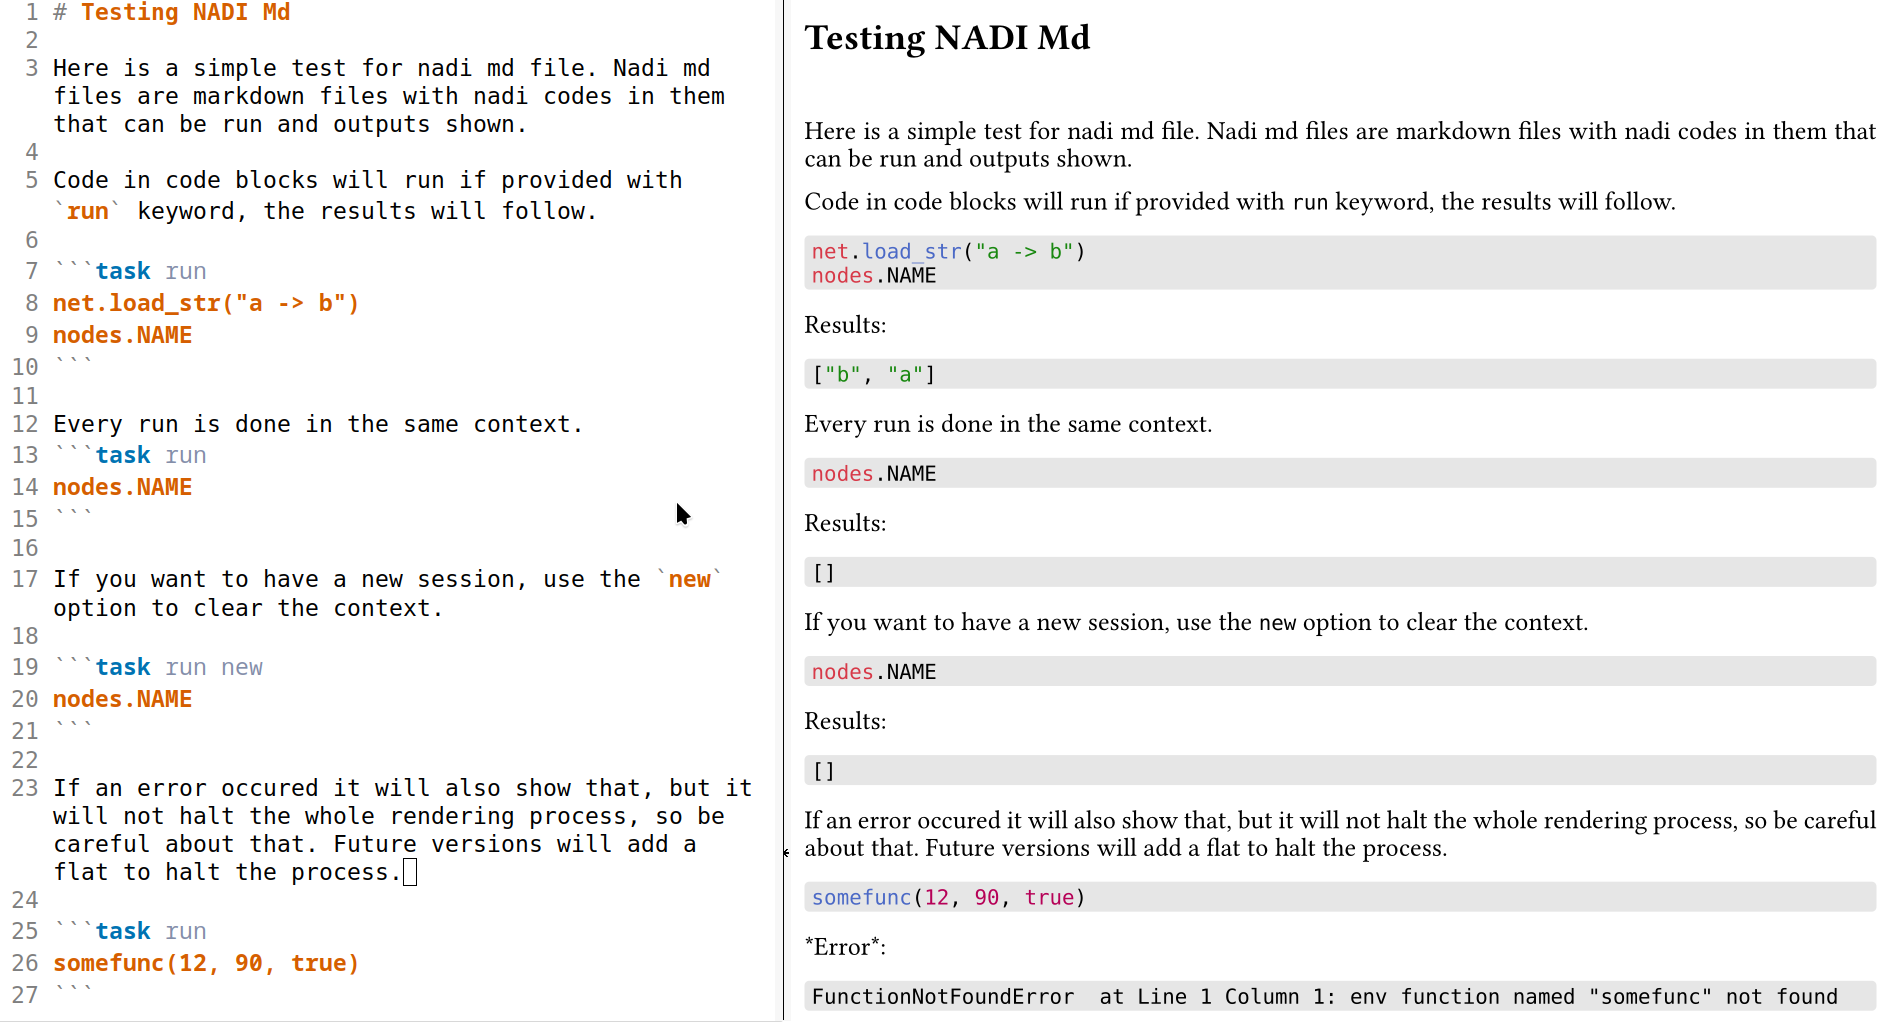
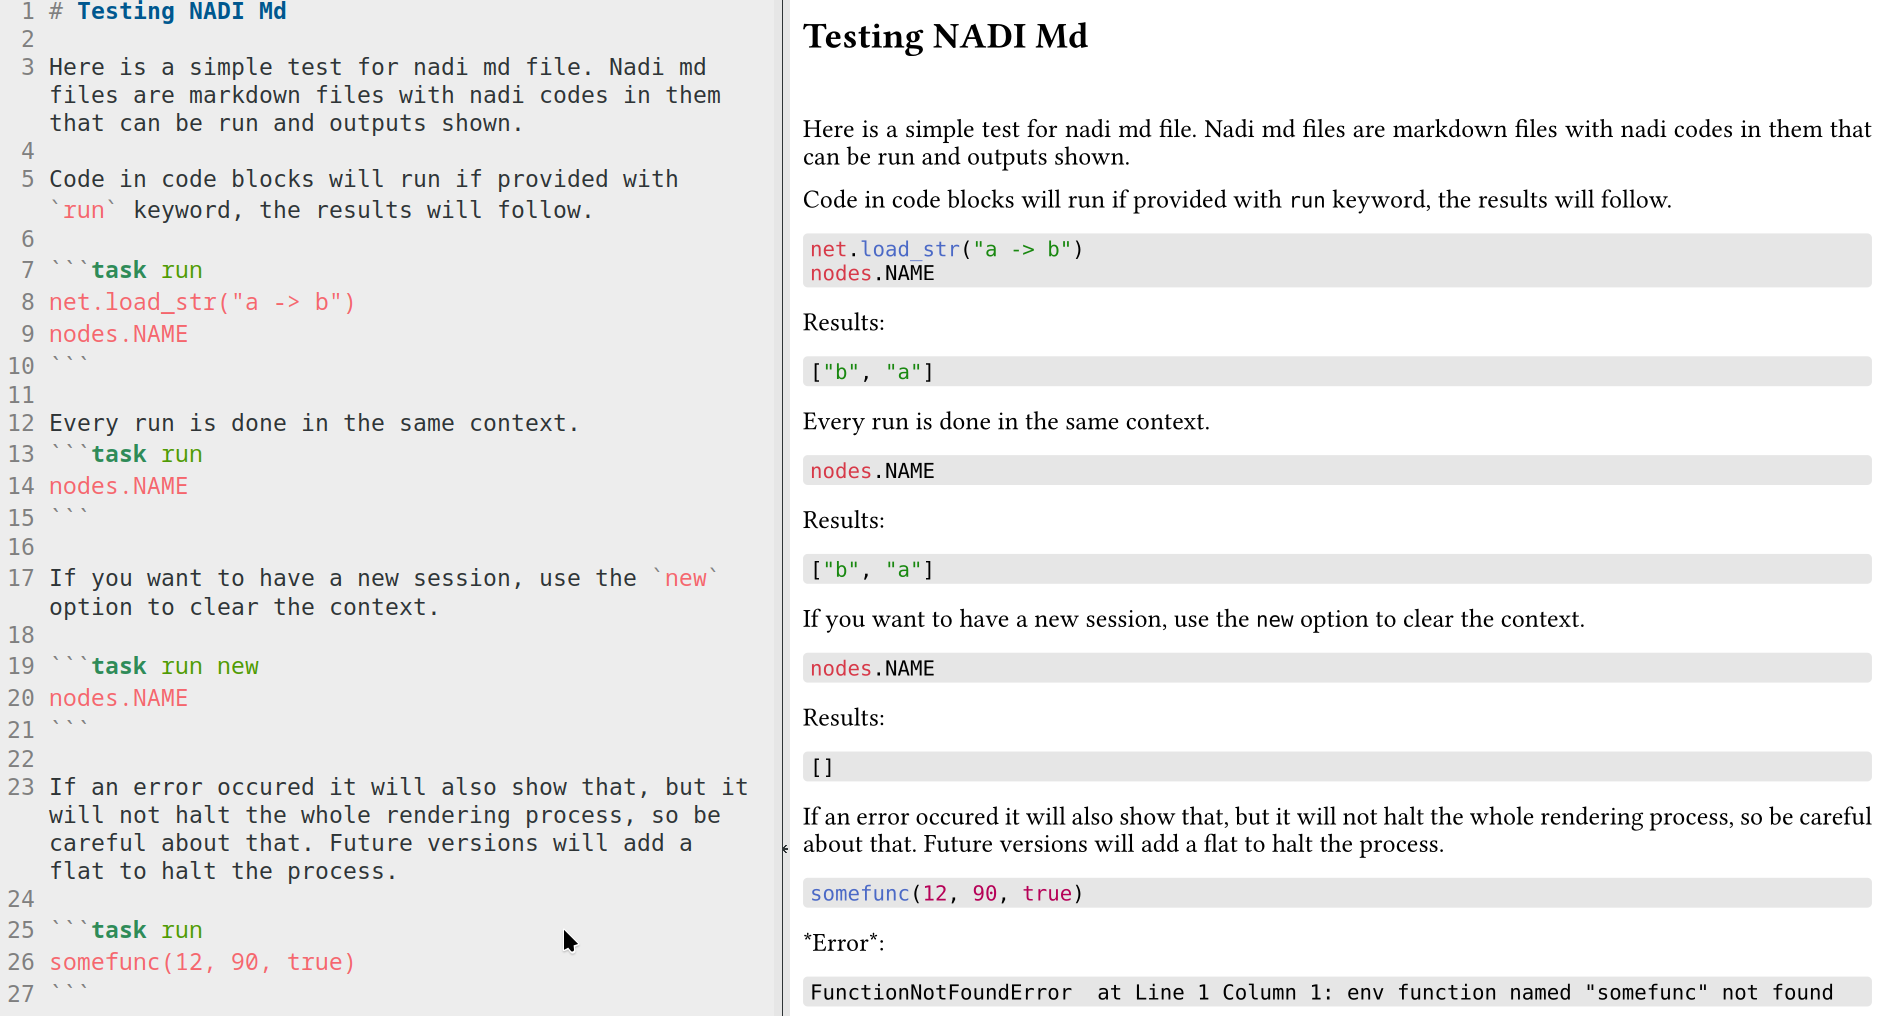
add generated files for the example as well

diff --git a/src/code_args.rs b/src/code_args.rs
@@ -181,8 +181,6 @@ pub fn run_table(table: &str, args: &str, pwd: &Path) -> anyhow::Result<Vec<Even
     let tokens = get_tokens(&tasks);
     let tasks = tasks::parse(tokens)?;
 
-    clear_context();
-
     let mut response = String::new();
     for task in tasks {
         // since we can't have anything else print on mdbook

diff --git a/README.md b/README.md
@@ -16,3 +16,5 @@ typst compile test.typ
 ```
 
 The `pre.typ` contains come prelude for the `typst` file to have a better rendering as well as syntax highlighting for `nadi` syntax.
+
+You can find the generated [`test.typ`](./test.typ) file as well as compiled [`test.pdf`](./test.pdf) file in this repo, along with the source code [`test.md`](./test.md)